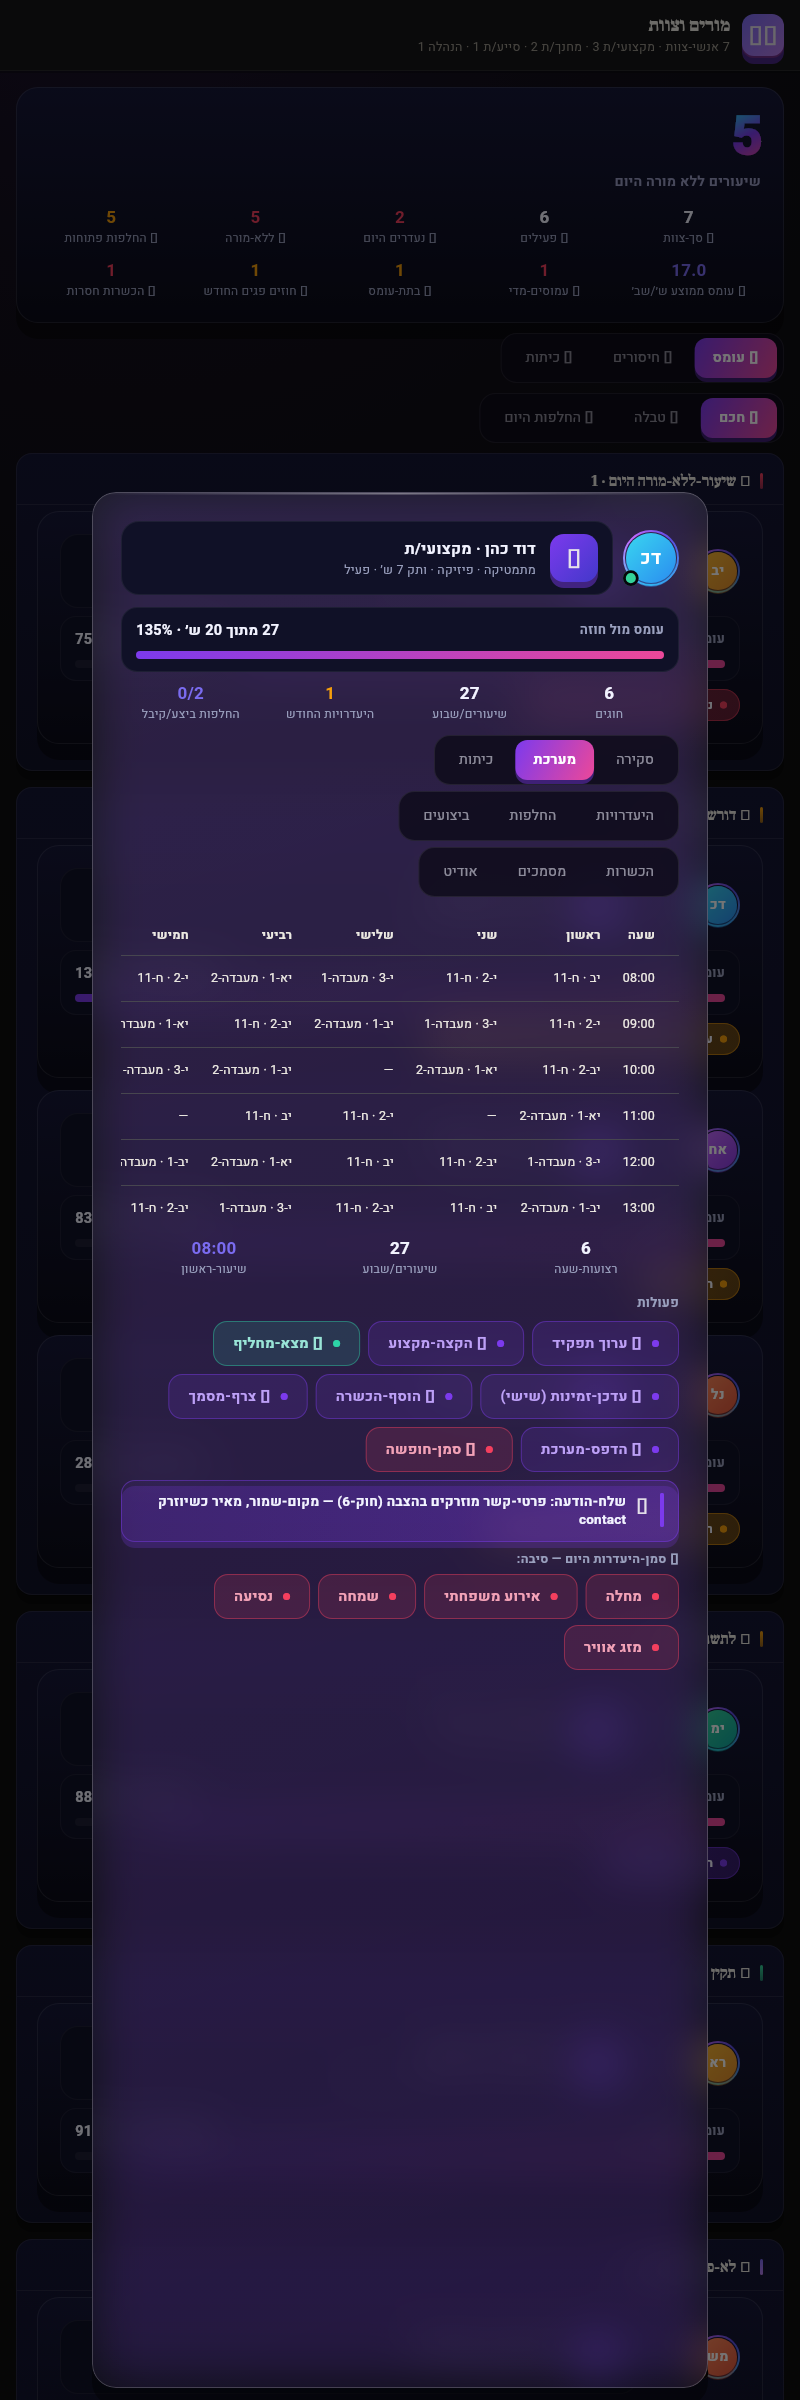
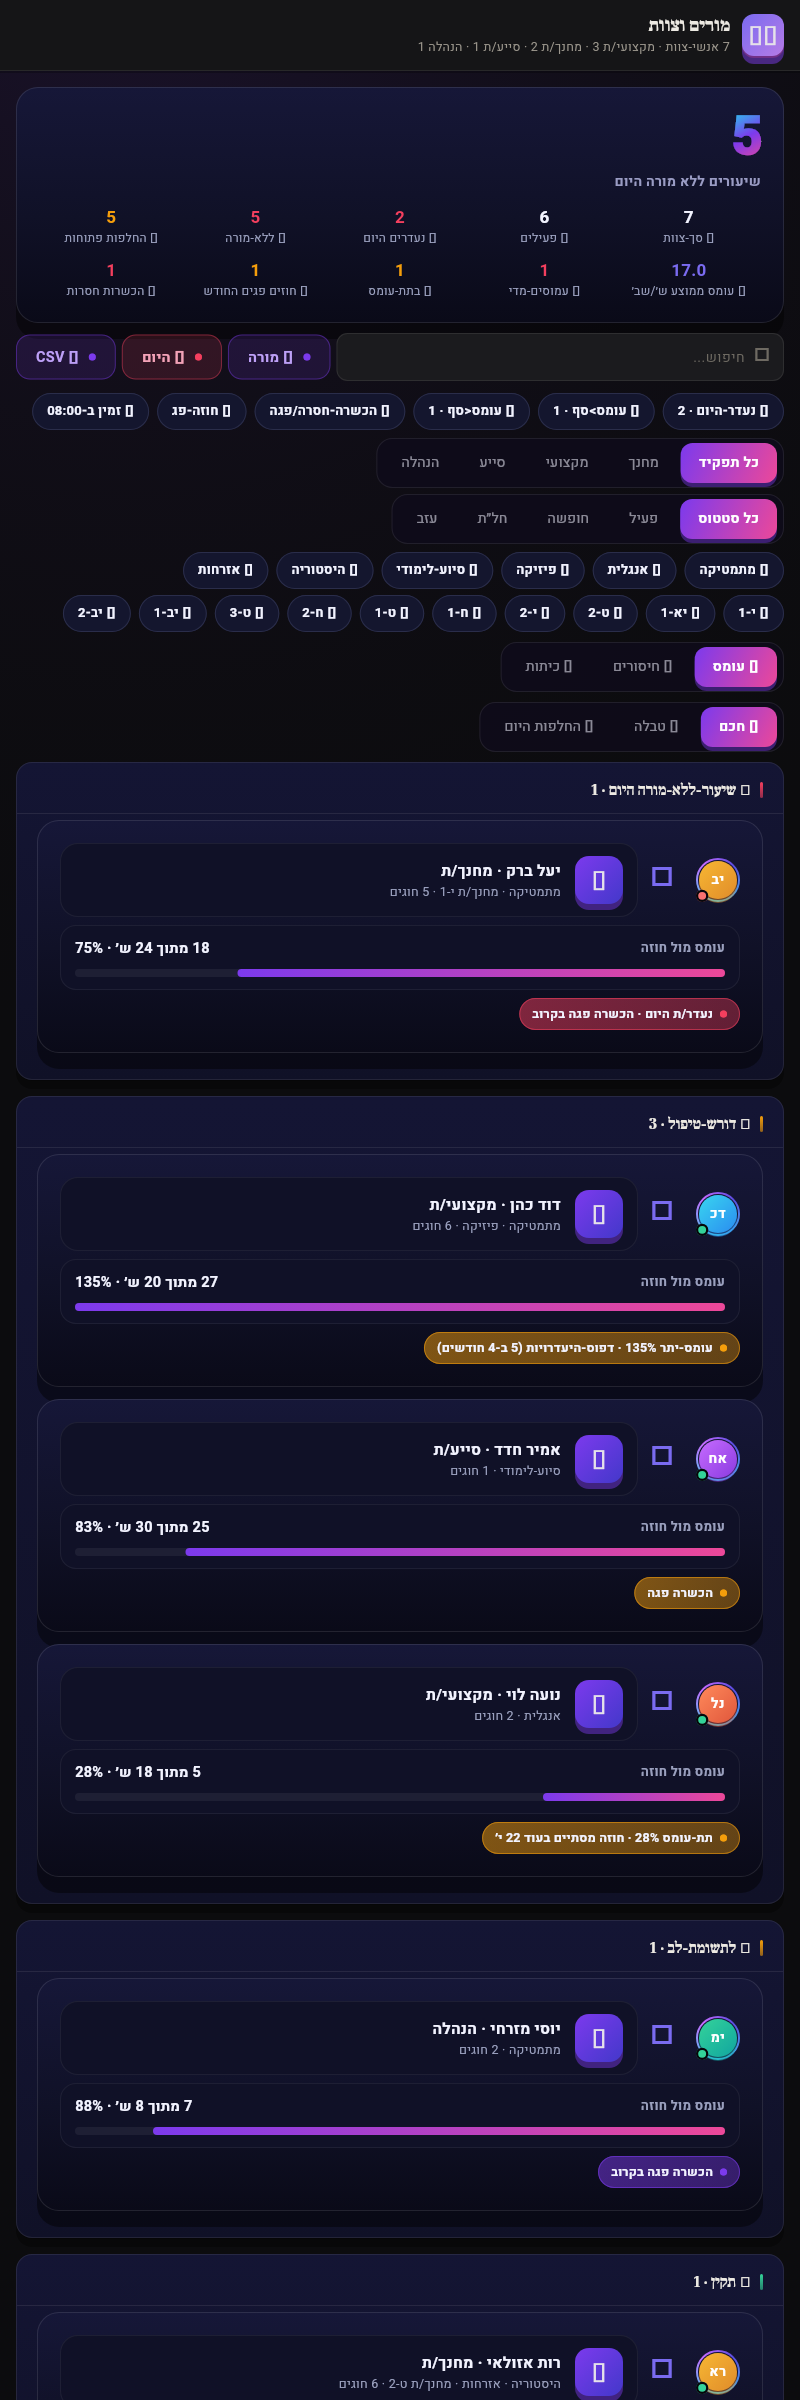
גל 4 · מורים · איתור+חריגה (סגירת-קיצור 23-ג) — DsSearch⊕smartFilter⊕smartScore⊕normSearch · 11 פילטרים: FilterChipPill⊕finderMatches (נעדר·עומס>·עומס<·הכשרה·חוזה·זמין-בסלוט) + SegmentedSwitch (תפקיד·סטטוס) + מקצוע/כיתה (countBy) · מורה-חדש · CSV-רשימה-נראית (toCsv⊕csvEscape)
Claude-Session: https://claude.ai/code/session_01BqAjnyL3FXR2gDLpy5PnRZ

Protocol-Ran: 405d7cae9ba0123c

diff --git a/new/dart-gen-bs/schoolos_teachers.dart b/new/dart-gen-bs/schoolos_teachers.dart
@@ -146,8 +146,10 @@ class _TeamData {
   ];
 
   // ─── עובדות-נגזרות פר-מורה ───
+  static final List<Map<String, dynamic>> added = []; // מורה-חדש (פנקס)
+  static List<Map<String, dynamic>> get everyone => [...roster, ...added];
   static Map<String, dynamic>? byId(String id) {
-    for (final t in roster) {
+    for (final t in everyone) {
       if (t['id'] == id) return t;
     }
     return null;
@@ -230,7 +232,7 @@ class _TeamData {
   }
   // אוטומציה: ברגע-היעדרות כל מפגש-של-היום ⇒ רשומת-החלפה stage 0 (אם אין כבר)
   static void syncUncovered() {
-    for (final t in roster) {
+    for (final t in everyone) {
       if (!absentToday(t) || isGone(t)) continue;
       for (final c in coursesOf(t)) {
         for (final s in sessionsOf(c) as List) {
@@ -253,7 +255,7 @@ class _TeamData {
   // הצעת-מחליף (23-ד: זמין ∧ מקצוע ∧ פנוי-בסלוט ∧ עומס-נמוך ∧ מועדף — מחוברים בדירוג):
   //   פנוי-בסלוט = scheduleClashText מהמדף (enrollments = שיבוצי-המורים לחוגיהם; null ⇒ אין התנגשות)
   static Map<String, dynamic> get _clashDb => {
-        'enrollments': [for (final t in roster) for (final c in coursesOf(t)) {'memberId': t['id'], 'courseId': c['id'], 'status': 'active'}],
+        'enrollments': [for (final t in everyone) for (final c in coursesOf(t)) {'memberId': t['id'], 'courseId': c['id'], 'status': 'active'}],
         'courses': courses,
       };
   static const _clashT = <String, dynamic>{'k1': 'ended', 'k2': '', 'k3': ' · '};
@@ -270,7 +272,7 @@ class _TeamData {
     final time = '${sub['time'] ?? slotOf(c, todayWd)}';
     // החלפה-ליום-אחד ⇒ ההתנגשות נבדקת מול הסלוט-של-היום בלבד (מבט-חוג מצומצם מוזרק למנוע); ההקצאה-הקבועה בודקת את כל השבוע.
     final slot = <String, dynamic>{...c, 'sessions': [{'day': todayWd, 'time': time}]};
-    final list = roster.where((t) => isActive(t) && t['id'] != absent['id'] && !absentToday(t) && subjects(t).contains(c['subject']) && availableAt(t, todayWd, time) && clashOf(t, slot) == null).toList();
+    final list = everyone.where((t) => isActive(t) && t['id'] != absent['id'] && !absentToday(t) && subjects(t).contains(c['subject']) && availableAt(t, todayWd, time) && clashOf(t, slot) == null).toList();
     list.sort((a, b) { // מועדף ראשון, אחר-כך עומס עולה
       final pa = absent['preferredSub'] == a['id'] ? 0 : 1, pb = absent['preferredSub'] == b['id'] ? 0 : 1;
       return pa != pb ? pa - pb : loadPct(a).compareTo(loadPct(b));
@@ -298,15 +300,54 @@ class _TeamData {
       ].join(' · ');
 
   // ─── KPI-10 (המפרט) — ספירות/סכומים על מנועי-מדף ושדות-אמת (אפס StatBlock) ───
-  static List<Map<String, dynamic>> get active => roster.where(isActive).toList();
-  static List<Map<String, dynamic>> get staff => roster.where((t) => !isGone(t)).toList();
-  static int get absentN => active.where(absentToday).length + roster.where((t) => statusOf(t) == 'leave' || statusOf(t) == 'unpaid').length;
+  static List<Map<String, dynamic>> get active => everyone.where(isActive).toList();
+  static List<Map<String, dynamic>> get staff => everyone.where((t) => !isGone(t)).toList();
+  static int get absentN => active.where(absentToday).length + everyone.where((t) => statusOf(t) == 'leave' || statusOf(t) == 'unpaid').length;
   static double get avgHours => active.isEmpty ? 0 : grandTotal(active, (t) => hoursWeek(t as Map<String, dynamic>)) / active.length;
   static int get overN => active.where(overLoad).length;
   static int get underN => active.where(underLoad).length;
   static int get contractsN => staff.where(contractEndsMonth).length;
   static int get certsN => active.where(certMissing).length;
   static List<List<Object>> get byRole => countBy(staff, (t) => roleLabel[roleOf_(t as Map<String, dynamic>)] ?? roleOf_(t)); // מדף
+
+  // ═══ איתור (הכרעה 23-ג) = DsSearch ⊕ smartFilter ⊕ smartScore ⊕ normSearch — לא `.contains` שטוח ═══
+  static const Map<String, String> _finals = {'k1': 'כ', 'k2': 'מ', 'k3': 'נ', 'k4': 'פ', 'k5': 'צ'};
+  static String _norm(dynamic q) => normSearch(q, _finals);
+  static Iterable _expand(dynamic q, dynamic norm) => [norm(q)];
+  static num _score(dynamic exp, dynamic term) => _norm(term).contains('$exp') ? 100 : 0;
+  static num _scoreOf(dynamic q, dynamic terms) => smartScore(q, terms, _norm, _expand, _score) as num;
+  static bool _hasQuery(dynamic q) => (q as String).trim().isNotEmpty;
+  static List<String> _termsOf(Map<String, dynamic> t) => ['${t['name']}', ...subjects(t), ...(t['homeroom'] as List).cast<String>(), roleLabel[roleOf_(t)] ?? '', for (final c in coursesOf(t)) '${c['cls']}', for (final r in (t['extraRoles'] as List)) '$r'];
+  static List<Map<String, dynamic>> search(List<Map<String, dynamic>> items, String q) =>
+      (smartFilter(q, items, (it) => _termsOf(it as Map<String, dynamic>), _hasQuery, _scoreOf) as List).cast<Map<String, dynamic>>();
+
+  // ═══ חריגה (הכרעה 23-ג) = FilterChipPill ⊕ finderMatches (AND רב-צירי על נעילות) ═══
+  //   צירים: absent · over · under · cert · contract · free(זמין-בסלוט-הפתוח-הקרוב) · role · status · subject · cls
+  static String get openSlot => uncoveredToday.isEmpty ? '08:00' : '${uncoveredToday.first['time']}';
+  static String _axisValue(Map<dynamic, dynamic> db, dynamic f, dynamic axis) {
+    final t = f as Map<String, dynamic>;
+    switch (axis) {
+      case 'absent': return absentToday(t) ? '1' : '0';
+      case 'over': return overLoad(t) ? '1' : '0';
+      case 'under': return underLoad(t) ? '1' : '0';
+      case 'cert': return certMissing(t) || certSoon(t) ? '1' : '0';
+      case 'contract': return contractEndsMonth(t) || contractExpired(t) ? '1' : '0';
+      case 'free': return isActive(t) && !absentToday(t) && availableAt(t, todayWd, openSlot) && clashOf(t, {'id': '__slot', 'sessions': [{'day': todayWd, 'time': openSlot}]}) == null ? '1' : '0';
+      case 'role': return roleOf_(t);
+      case 'status': return statusOf(t);
+      case 'subject': return subjects(t).join('|');
+      case 'cls': return [for (final c in coursesOf(t)) '${c['cls']}', ...(t['homeroom'] as List)].join('|');
+    }
+    return '';
+  }
+  static List<Map<String, dynamic>> filter(List<Map<String, dynamic>> items, Map<String, String> locks) {
+    // ערכי-רשימה (subject/cls) נבדקים בהכלה: נועלים על 'X' ובודקים דרך ציר-נגזר
+    final rows = items.where((t) => (locks['subject'] == null || subjects(t).contains(locks['subject'])) && (locks['cls'] == null || _axisValue({}, t, 'cls').split('|').contains(locks['cls']))).toList();
+    final simple = {for (final e in locks.entries) if (e.key != 'subject' && e.key != 'cls') e.key: e.value};
+    return finderMatches({'families': rows}, simple, _axisValue).cast<Map<String, dynamic>>();
+  }
+  static List<String> get allSubjects => [for (final r in countBy([for (final t in staff) for (final sj in subjects(t)) sj], (x) => '$x')) '${r[0]}'];
+  static List<String> get allClasses => [for (final r in countBy([for (final t in staff) for (final c in coursesOf(t)) '${c['cls']}'], (x) => '$x')) '${r[0]}'];
 
   // ═══ חוזה-עמודות · מקום-שמור (חוק-7 · מבחן-הקונכייה) — 16 עמודות-המפרט כשקעי-דאטה ═══
   //   נגזרת(get)=תמיד-מוצגת · שדה(key)=מוארת רק כשרשומה נושאת ערך, חסר ⇒ שקט. photo/contact/classAttendance/updatedAt
@@ -422,6 +463,13 @@ class _TeamData {
   }
   static final List<Map<String, dynamic>> audit = []; // אודיט (מי·מה·מתי) — TimelineItem
   static void log(String who, String what, String target) => audit.insert(0, {'who': who, 'what': what, 'target': target, 'date': today});
+  static int _seq = 0;
+  static void addTeacher(String who) { // מורה-חדש: רשומה בצורת-החוזה; זהות = מקום-שמור להזרקה (חוק-6)
+    _seq++;
+    added.add({'id': 'n$_seq', 'name': 'מורה חדש/ה $_seq', 'role': 'subject', 'subjects': <String>[], 'homeroom': <String>[], 'contractHours': 20, 'contractType': 'זמני', 'startDate': today, 'status': 'active',
+      'availability': <int, List<String>>{}, 'constraints': <String>[], 'extraRoles': <String>[], 'certs': <Map<String, dynamic>>[], 'attendance': <Map<String, dynamic>>[], 'absences': <Map<String, dynamic>>[], 'notes': ''});
+    log(who, 'מורה-חדש (ממתין לפרטים)', 'n$_seq');
+  }
   static void markAbsent(Map<String, dynamic> t, String reason, String who) {
     if (absentOn(t, today)) return;
     (extraAbsences[t['id'] as String] ??= []).insert(0, {'date': today, 'reason': reason});
@@ -460,6 +508,8 @@ class _TeachersScreenState extends State<TeachersScreen> {
   int _sort = 0; // 0=⚖ עומס · 1=🤒 חיסורים · 2=🏫 כיתות
   final Map<String, int> _tab = {}; // טאב-נבחר פר-מורה (חיווט SegmentedSwitch→תצוגה)
   static const _tabNames = ['סקירה', 'מערכת', 'כיתות', 'היעדרויות', 'החלפות', 'ביצועים', 'הכשרות', 'מסמכים', 'אודיט'];
+  String _q = ''; // חיפוש-איתור (DsSearch→smartFilter)
+  final Map<String, String> _locks = {}; // נעילות-סינון (FilterChipPill→finderMatches)
   int _mode = 0; // 0=🎯 חכם (טריאז') · 1=📋 טבלה (DsTable כל-העמודות) · 2=🔁 לוח-החלפות-היום (DsBoard)
   static const _who = 'הנהלה'; // זהות-הפועל (חוק-6 — מוזרק בגל 5 מהתפקיד)
 
@@ -479,7 +529,7 @@ class _TeachersScreenState extends State<TeachersScreen> {
   Widget build(BuildContext context) {
     final all = _TeamData.active;
     final uncovered = _TeamData.uncoveredToday.length; // hero = המטרה: אף שיעור בלי מורה
-    final ranked = [..._TeamData.roster.where((t) => !_TeamData.isGone(t))];
+    final ranked = [..._TeamData.everyone.where((t) => !_TeamData.isGone(t))];
     ranked.sort((a, b) {
       switch (_sort) {
         case 1:
@@ -490,9 +540,11 @@ class _TeachersScreenState extends State<TeachersScreen> {
           return _TeamData.loadPct(b).compareTo(_TeamData.loadPct(a));
       }
     });
+    // איתור⊕חריגה (23-ג): search=DsSearch⊕smartFilter⊕smartScore⊕normSearch · filter=finderMatches — פייפליין אחד לטריאז'/טבלה/ייצוא
+    final visible = _TeamData.filter(_TeamData.search(ranked, _q), _locks);
     // טריאז' — פעולת-יסוד "הכרעה" מקבצת פר-דחיפות-מאוחדת (sev)
     final buckets = <int, List<Map<String, dynamic>>>{3: [], 2: [], 1: [], 0: [], -1: []};
-    for (final t in ranked) {
+    for (final t in visible) {
       buckets[_TeamData.sev(t)]!.add(t);
     }
     const secTitle = {3: '🔴 שיעור-ללא-מורה היום', 2: '🟠 דורש-טיפול', 1: '🟡 לתשומת-לב', 0: '🟢 תקין', -1: '⏸ לא-פעיל/חופשה'};
@@ -525,6 +577,34 @@ class _TeachersScreenState extends State<TeachersScreen> {
           ]),
         ),
         const SizedBox(height: 10),
+        // פס-עליון: חיפוש-מבוקר (DsSearch) · מורה-חדש · לוח-החלפות-היום · ייצוא (רשימה-נראית)
+        Row(children: [
+          Expanded(child: DsSearch(value: _q, onChanged: (v) => setState(() => _q = v))),
+          const SizedBox(width: 6),
+          Padding(padding: const EdgeInsets.only(bottom: 12), child: SoftButton(label: '➕ מורה', tone: 0, onTap: () => setState(() => _TeamData.addTeacher(_who)))),
+          const SizedBox(width: 6),
+          Padding(padding: const EdgeInsets.only(bottom: 12), child: SoftButton(label: '🔁 היום', tone: _TeamData.uncoveredToday.isEmpty ? 0 : 2, onTap: () => setState(() => _mode = 2))),
+          const SizedBox(width: 6),
+          Padding(padding: const EdgeInsets.only(bottom: 12), child: SoftButton(label: '⬇ CSV', tone: 0, onTap: () => _openExport('רשימת-צוות · ${visible.length}', _TeamData.rosterCsv(visible)))),
+        ]),
+        // פילטרים (המפרט: 11) — צ׳יפי-חריגה (finderMatches) + תפקיד/סטטוס (SegmentedSwitch) + מקצוע/כיתה (FilterChipPill)
+        Wrap(spacing: 8, runSpacing: 6, children: [
+          _fchip('absent', '🤒 נעדר-היום · ${_TeamData.absentN}'),
+          _fchip('over', '🔥 עומס>סף · ${_TeamData.overN}'),
+          _fchip('under', '🪫 עומס<סף · ${_TeamData.underN}'),
+          _fchip('cert', '🎓 הכשרה-חסרה/פגה'),
+          _fchip('contract', '📄 חוזה-פג'),
+          _fchip('free', '🟢 זמין ב-${_TeamData.openSlot}'),
+        ]),
+        const SizedBox(height: 8),
+        Align(alignment: Alignment.centerRight, child: SegmentedSwitch(items: const ['כל תפקיד', 'מחנך', 'מקצועי', 'סייע', 'הנהלה'], selected: _segIdx('role', const ['homeroom', 'subject', 'aide', 'mgmt']), onSelect: (i) => _segSet('role', const ['homeroom', 'subject', 'aide', 'mgmt'], i))),
+        const SizedBox(height: 6),
+        Align(alignment: Alignment.centerRight, child: SegmentedSwitch(items: const ['כל סטטוס', 'פעיל', 'חופשה', 'חל״ת', 'עזב'], selected: _segIdx('status', const ['active', 'leave', 'unpaid', 'left']), onSelect: (i) => _segSet('status', const ['active', 'leave', 'unpaid', 'left'], i))),
+        const SizedBox(height: 8),
+        Wrap(spacing: 8, runSpacing: 6, children: [for (final sj in _TeamData.allSubjects) _vchip('subject', sj, '📚 $sj')]),
+        const SizedBox(height: 6),
+        Wrap(spacing: 8, runSpacing: 6, children: [for (final c in _TeamData.allClasses.take(10)) _vchip('cls', c, '🏫 $c')]),
+        const SizedBox(height: 10),
         // מיון (המפרט: עומס · חיסורים · כיתות) — SegmentedSwitch מבוקר
         Align(
           alignment: Alignment.centerRight,
@@ -539,8 +619,10 @@ class _TeachersScreenState extends State<TeachersScreen> {
         const SizedBox(height: 10),
         if (_mode == 2)
           _subsBoard()
+        else if (visible.isEmpty)
+          const Padding(padding: EdgeInsets.only(top: 24), child: EmptyState(glyph: '🔍', message: 'אין אנשי-צוות תואמים לחיפוש/סינון'))
         else if (_mode == 1)
-          _table(ranked)
+          _table(visible)
         else
           for (final st in const [3, 2, 1, 0, -1])
             if (buckets[st]!.isNotEmpty)
@@ -552,6 +634,16 @@ class _TeachersScreenState extends State<TeachersScreen> {
   }
 
   Widget _gap([double h = 10]) => SizedBox(height: h);
+
+  // צ׳יפ-סינון מבוקר: הזרקת-צבעים (חוק-6) + נעילת-ציר ב-_locks (finderMatches)
+  Widget _fchip(String axis, String label) => _vchip(axis, '1', label);
+  Widget _vchip(String axis, String value, String label) => FilterChipPill(
+        label: label, selected: _locks[axis] == value,
+        onTap: () => setState(() => _locks[axis] == value ? _locks.remove(axis) : _locks[axis] = value),
+        activeFillColor: _acc, surfaceColor: const Color(0xFF14162E), activeTextColor: const Color(0xFF0B0B15), inkColor: _ink, outlineColor: const Color(0xFF2A2D4A), pillRadius: 999,
+      );
+  int _segIdx(String axis, List<String> vals) => _locks[axis] == null ? 0 : vals.indexOf(_locks[axis]!) + 1;
+  void _segSet(String axis, List<String> vals, int i) => setState(() => i == 0 ? _locks.remove(axis) : _locks[axis] = vals[i - 1]);
 
   // ═══ כרטיס-מורה-נבחר (צד) · GlassCard(child) · 9 טאבים (SegmentedSwitch×2) · 14 פעולות (SoftButton) ═══
   void _openPanel(Map<String, dynamic> t) {
